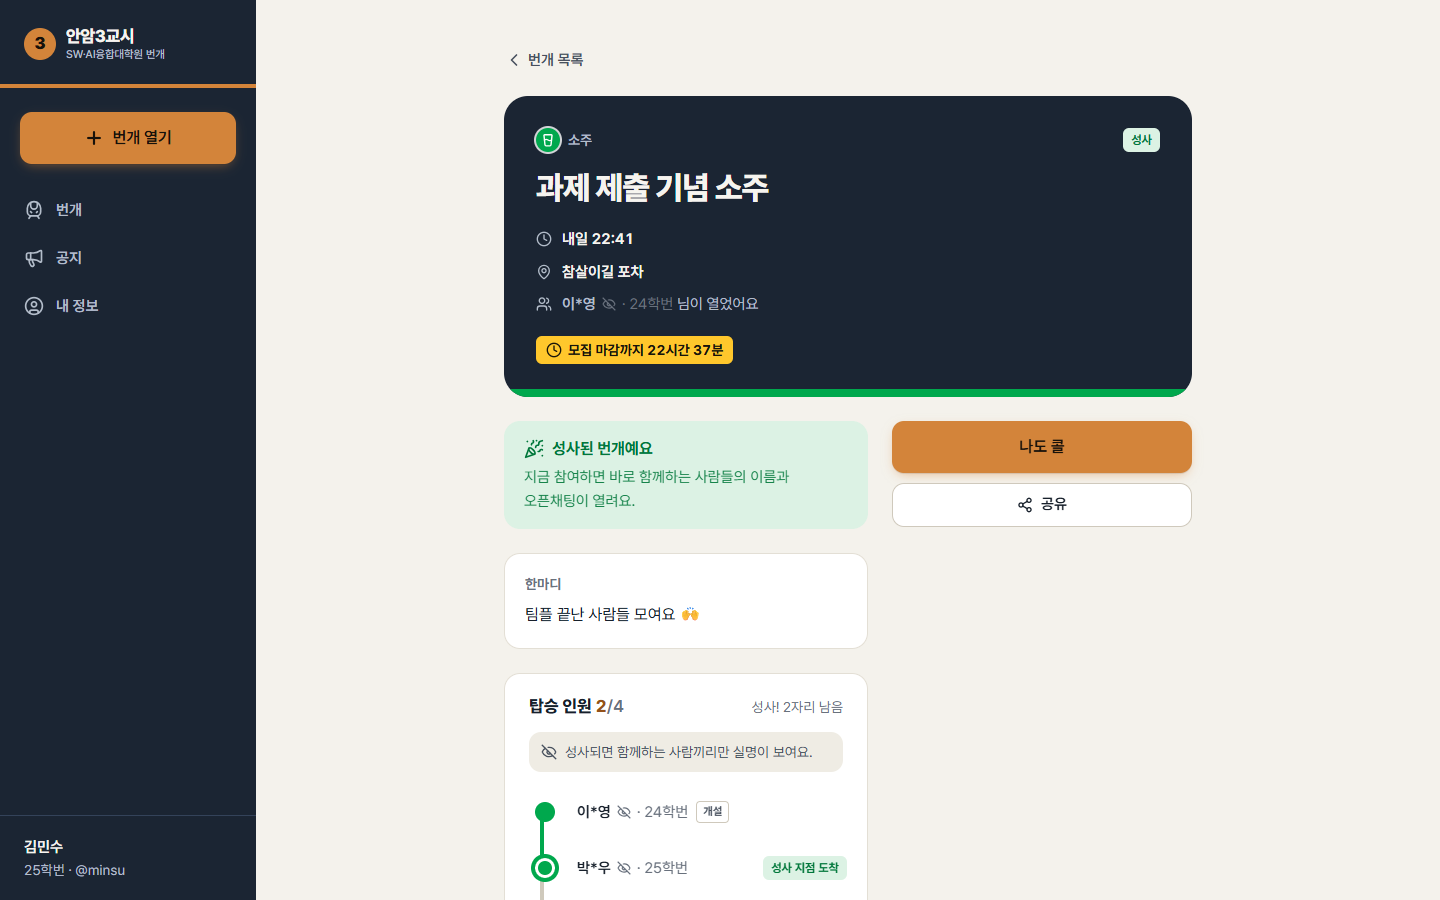
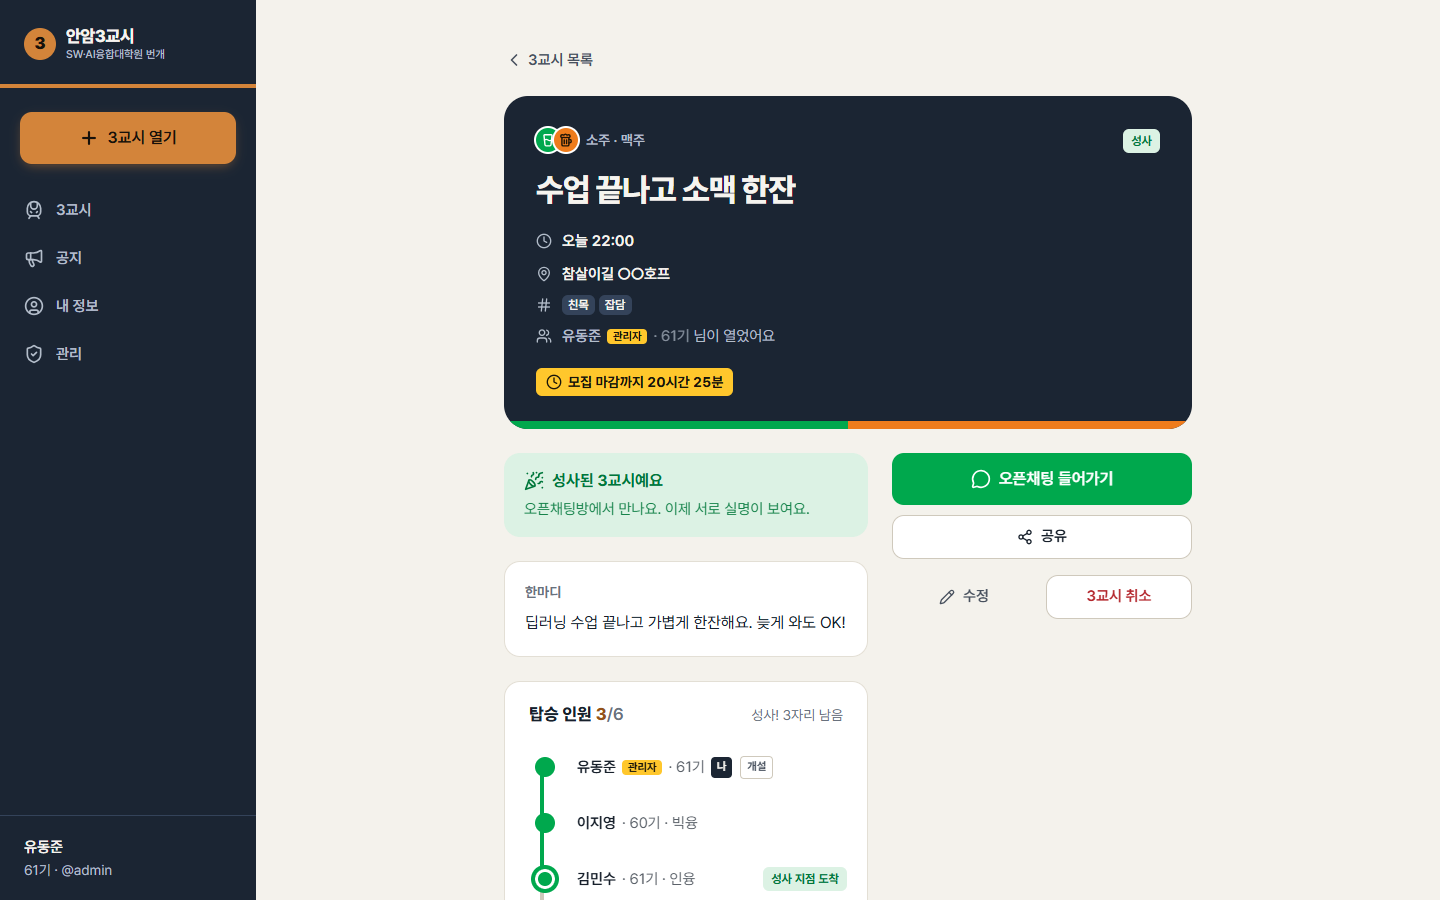
docs: README를 소개·동작·실행 방법만 남기고 정리, 스크린샷 교체
- README: 배포 절차·환경변수 표·폴더 구조 등 운영 세부 사항을 빼고 소개, 동작 방식, 기술 스택, 로컬 실행만 남김
- 스크린샷을 새 화면(3교시, 기수·학과, 관리자 표시)으로 교체
- 공개 저장소에 필요 없는 파일 정리: PRODUCT.md(디자인 작업 메모, 로컬 전용으로 .gitignore), 쓰지 않는 keepalive 워크플로, 쓰지 않는 이미지
- CONTRIBUTING·이슈 템플릿 용어를 3교시/관리자로 맞춤

diff --git a/README.md b/README.md
@@ -1,154 +1,64 @@
 # 안암3교시 🍻
 
 > 수업 끝나고, 3교시는 여기서.
-> 고려대학교 SW·AI융합대학원 동기·선후배를 위한 **번개 모임** 서비스 (학생 비공식 프로젝트)
 
-"누구 한잔할 사람?" 하고 먼저 말 꺼내기 민망했던 사람들을 위해 만들었어요.
-수업 끝나고 모이는 번개를 이 서비스에서는 **3교시**라고 불러요 (화면의 "3교시 열기", "열린 3교시" 등).
+고려대학교 SW·AI융합대학원 동기·선후배가 수업 끝나고 함께할 번개 모임을 부담 없이 열고 참여하는 웹 서비스예요.
+이 서비스에서는 그 번개를 **3교시**라고 불러요.
 
-| 모바일 — 열린 번개 | 모바일 — 성사! | 데스크톱 — 번개 상세 |
+| 모바일 — 열린 3교시 | 모바일 — 성사! | 데스크톱 — 3교시 상세 |
 | :---: | :---: | :---: |
 | <img src="docs/images/mobile-feed.png" width="240" /> | <img src="docs/images/mobile-confirmed.png" width="240" /> | <img src="docs/images/desktop-detail.png" width="420" /> |
 
-## 핵심 규칙: "성사되기 전까지는 아무도 모른다"
+## 어떻게 동작하나요
 
-| 누가 보나 | 성사 전 (최소 인원 미달) | 성사 후 (최소 인원 달성) |
-| --- | --- | --- |
-| 참여자 | `김*수 · 61기 · 인융` (가려짐) | **실명 + 카카오톡 오픈채팅 링크** |
-| 참여 안 한 사람 | `김*수 · 61기 · 인융` | `김*수 · 61기 · 인융` (계속 가려짐) |
-| 관리자 | 실명 | 실명 |
+1. 누군가 3교시를 열어요. 마실 것, 시간, 장소, 인원(최소·최대 또는 제한 없음)을 정해요.
+2. 다른 사람들이 **나도 콜**로 참여해요. 성사 전까지 이름은 `김*수 · 61기 · 인융`처럼 가려져요.
+3. 최소 인원이 모이면 **성사**! 참여자끼리만 실명과 카카오톡 오픈채팅 링크가 공개돼요.
+4. 마감까지 인원이 안 모이면 목록에서 조용히 사라져요.
 
-- 마감 시간까지 최소 인원이 안 모이면 **무산**되고, 목록에서 조용히 사라져요 (본인의 "내 3교시"에만 남음).
-- **최소 인원 없음**으로 열면 몇 명이 오든 진행해요. 열자마자 '확정'이라 참여하면 바로 서로 실명이 보여요.
-- 관리자 본인의 이름은 가려지지 않고 `유동준 [관리자]`처럼 표시돼요.
-- 이름 가리기는 **서버에서** 처리해요. 화면에서 가리면 개발자 도구로 다 보이니까요. → [`MeetupMapper.java`](backend/src/main/java/com/anam3/meetup/MeetupMapper.java)
-- 인원 현황은 지하철 노선도처럼 보여줘요. 자리 하나가 역 하나이고, 최소 인원 지점은 환승역처럼 그려요.
+이름 가리기는 화면이 아니라 서버에서 처리해요 ([`MeetupMapper.java`](backend/src/main/java/com/anam3/meetup/MeetupMapper.java)).
 
-## 기능
+## 주요 기능
 
-- **3교시(번개)**: 열기(마실 것 여러 개 선택·모임 목적 태그·시간·장소 직접 입력·최소/최대 인원 각각 "없음" 가능·모집 마감·오픈채팅 링크), "나도 콜" 참여/취소, 공유(단톡방 링크 복사), 다가오는/지난 3교시
-- **공지**: 누구나 작성, 관리자 글은 실명 + "관리자" 표시, 상단 고정은 관리자만
-- **회원**: 입장 코드로만 가입(외부인 차단), 기수(1기~최신)·학과(소프트웨어보안/빅데이터융합/인공지능융합) 선택, 내 정보 수정, 비밀번호 변경
-- **관리자**: 회원 목록(실명), 차단/해제, 임시 비밀번호 발급, 입장 코드·최신 기수 변경, 전체 3교시 보기, 통계
-- 모바일/데스크톱 반응형, 다크 모드, 홈 화면에 추가 가능
+- 3교시 열기 · 참여 · 단톡방 공유, 다가오는/지난 3교시
+- 공지 게시판 (누구나 작성)
+- 입장 코드로만 가입, 기수·학과 표시
+- 관리자 페이지 (회원 관리, 입장 코드)
+- 모바일·데스크톱 반응형, 다크 모드
 
 ## 기술 스택
 
-| 영역 | 사용 기술 |
-| --- | --- |
-| 백엔드 | Java 25, Spring Boot 4.1, Spring Security(JWT), Spring Data JPA, Flyway, Maven |
-| DB | PostgreSQL(운영, Neon 무료) / H2(로컬·테스트, 설치 불필요) |
-| 프론트엔드 | React 19, TypeScript, Vite, Tailwind CSS v4, TanStack Query, React Router |
-| 배포 | Render 무료 웹 서비스(Docker 1개에 화면+API) + Neon 무료 PostgreSQL |
-| CI | GitHub Actions (백엔드 테스트, 프론트 lint/test/build, Docker 빌드) |
+- **백엔드**: Java 25, Spring Boot 4, Spring Security (JWT), Spring Data JPA, Flyway
+- **프론트엔드**: React 19, TypeScript, Vite, Tailwind CSS v4, TanStack Query
+- **DB**: PostgreSQL (로컬 개발은 설치 없이 H2 인메모리)
+- **배포**: 화면과 API를 Docker 이미지 하나로 빌드해요. `main`에 합쳐지면 자동으로 배포돼요.
 
-## 로컬에서 실행하기 (5분)
+## 로컬에서 실행하기
 
-필요한 것: **Java 25**, **Node.js 22 이상**. DB 설치는 필요 없어요(H2 인메모리 + 샘플 데이터 자동 생성).
+필요한 것: Java 25, Node.js 22 이상. DB는 설치하지 않아도 되고, 샘플 데이터가 자동으로 들어가요.
 
 ```bash
-# 1) 백엔드 (http://localhost:8080)
+# 백엔드 (http://localhost:8080)
 cd backend
 ./mvnw spring-boot:run        # Windows: mvnw.cmd spring-boot:run
 
-# 2) 프론트엔드 (http://localhost:5173) — 새 터미널에서
+# 프론트엔드 (http://localhost:5173) — 새 터미널에서
 cd frontend
 npm install
 npm run dev
 ```
 
-브라우저에서 http://localhost:5173 을 열고 아래 계정으로 로그인하세요.
+http://localhost:5173 에서 샘플 계정 `minsu` / `password1234` 로 로그인하면 돼요 (로컬 전용 계정).
 
-| 아이디 | 비밀번호 | 역할 |
-| --- | --- | --- |
-| `admin` | `admin1234` | 운영자 |
-| `minsu` / `jiyoung` / `hyunwoo` | `password1234` | 일반 회원 |
-
-새로 가입하려면 입장 코드 `anam3` 를 쓰면 돼요 (로컬 전용).
-H2 DB 내용은 http://localhost:8080/h2-console 에서 볼 수 있어요 (JDBC URL: `jdbc:h2:mem:anam3`, 사용자 `sa`).
-
-## 테스트
+테스트:
 
 ```bash
-cd backend && ./mvnw test           # API 통합 테스트 + 단위 테스트
-cd frontend && npm run lint && npm test && npm run build
+cd backend && ./mvnw test
+cd frontend && npm run lint && npm test
 ```
-
-PR을 올리면 GitHub Actions가 위 테스트와 Docker 빌드를 자동으로 돌려요.
-
-## 폴더 구조
-
-```
-backend/                       Spring Boot API
-  src/main/java/com/anam3/
-    auth/      로그인·가입·JWT·보안 설정
-    member/    회원, 내 정보(/api/me)
-    meetup/    번개 ★ 공개 규칙은 MeetupMapper, 상태 계산은 Meetup.statusAt
-    notice/    공지
-    admin/     운영자 API (/api/admin/**)
-    setting/   입장 코드 등 운영 설정
-    bootstrap/ 운영자 계정 자동 생성, 로컬 샘플 데이터
-    common/    에러 처리, 이름 마스킹, SPA 서빙, DB URL 변환
-  src/main/resources/db/migration/   DB 스키마 (Flyway)
-frontend/                      React 화면
-  src/api/        API 호출 + react-query 훅
-  src/pages/      화면 단위
-  src/components/ 공통 컴포넌트 (LineGauge = 노선도 게이지)
-  src/lib/        시간(KST) 처리, 번개 종류/상태 표시 규칙
-  src/index.css   디자인 토큰 (색은 여기서만 정의)
-Dockerfile        화면+API 한 컨테이너로 빌드
-render.yaml       Render 배포 설정
-```
-
-## 배포 (무료)
-
-구성: **Render**(앱 1개, 무료) + **Neon**(PostgreSQL, 무료) + **cron-job.org**(잠들지 않게 깨우기, 무료)
-
-> 무료 플랜 조건은 바뀔 수 있어요 (2026년 11월 기준: Render 무료 750시간/월·15분 무요청 시 잠듦, Neon 무료 1GB·월 100 CU-시간).
-
-### 1. Neon에서 DB 만들기
-1. https://neon.com 가입 → **New Project** → Region은 **AWS Asia Pacific (Singapore)** 선택
-2. 대시보드의 **Connect** 에서 연결 문자열 복사 (`postgresql://...neon.tech/neondb?sslmode=require` 형태, *Pooled connection* 권장)
-
-### 2. Render에 앱 올리기
-1. https://render.com 에 GitHub 계정으로 가입
-2. **New → Blueprint** → 이 저장소 선택 (`render.yaml` 을 자동으로 읽어요)
-3. 환경변수 입력:
-
-| 이름 | 값 |
-| --- | --- |
-| `DATABASE_URL` | 1번에서 복사한 Neon 연결 문자열 그대로 |
-| `INVITE_CODE` | 가입용 입장 코드 (단톡방에 공지할 값) |
-| `ADMIN_LOGIN_ID` | 운영자 아이디 |
-| `ADMIN_PASSWORD` | 운영자 비밀번호 (8자 이상) |
-| `JWT_SECRET` | 자동 생성됨 (손대지 않기) |
-
-4. **Apply** → 첫 빌드 5~10분 → `https://anam3-xxxx.onrender.com` 주소가 생겨요.
-5. 그 주소로 들어가 운영자 아이디로 로그인 → 운영 페이지에서 입장 코드 확인
-
-### 3. 잠들지 않게 하기 (선택이지만 추천)
-Render 무료 앱은 15분간 요청이 없으면 잠들고, 깨는 데 최대 1분 걸려요.
-https://cron-job.org 에서 **10분마다** `https://(내 주소)/api/health` 를 호출하도록 등록하면 항상 깨어 있어요.
-(헬스체크는 DB를 건드리지 않아서 Neon 무료 사용량은 아껴져요.)
-
-GitHub Actions로 하려면 저장소 **Settings → Secrets and variables → Actions → Variables** 에 `APP_URL` 을 넣으면 [`keepalive.yml`](.github/workflows/keepalive.yml) 이 10분마다 깨워요. 다만 GitHub 예약 작업은 실행이 늦어질 수 있어서 cron-job.org를 더 추천해요.
-
-### 환경변수 전체
-
-| 이름 | 필수 | 설명 |
-| --- | --- | --- |
-| `DATABASE_URL` | ✅ | `postgresql://user:pass@host/db?sslmode=require` 또는 `jdbc:postgresql://...` |
-| `JWT_SECRET` | ✅ | 32자 이상 무작위 문자열 |
-| `INVITE_CODE` | ✅ | 최초 입장 코드 (이후엔 운영 페이지에서 변경) |
-| `ADMIN_LOGIN_ID` / `ADMIN_PASSWORD` | 권장 | 서버 시작 시 운영자 계정 생성. 이미 가입한 아이디면 운영자로 승격 |
-| `ADMIN_NAME` | | 관리자 계정을 처음 만들 때의 이름 (기본 "관리자", render.yaml 은 "유동준") |
-| `ADMIN_COHORT` | | 운영자 계정을 처음 만들 때의 기수 (기본 61) |
-| `LATEST_COHORT` | | 가입 때 고를 수 있는 최신 기수 초깃값 (기본 62, 이후엔 운영 페이지에서 변경) |
-| `CORS_ALLOWED_ORIGINS` | | 프론트를 다른 도메인(예: Vercel)에 따로 올릴 때만 |
-| `VITE_API_BASE_URL` | | (프론트 빌드용) API가 다른 도메인일 때만 |
 
 ## 함께 만들기
 
 기능 제안, 버그 제보, 코드 기여 모두 환영해요. → [CONTRIBUTING.md](CONTRIBUTING.md)
 
-학생들이 만든 비공식 커뮤니티로, 고려대학교의 공식 서비스가 아닙니다.
+학생들이 만든 비공식 프로젝트로, 고려대학교의 공식 서비스가 아니에요. · [MIT License](LICENSE)

diff --git a/CONTRIBUTING.md b/CONTRIBUTING.md
@@ -11,14 +11,14 @@
 
 1. **이슈 먼저**: 큰 작업이면 이슈에 "이거 제가 해 볼게요" 남겨 주세요. 겹치는 작업을 막을 수 있어요.
 2. **저장소 가져오기**
-   - 운영자가 협업자(Collaborator)로 초대했다면 → 바로 `git clone`
+   - 관리자가 협업자(Collaborator)로 초대했다면 → 바로 `git clone`
    - 아니라면 → 오른쪽 위 **Fork** 후 내 저장소를 clone
 3. **브랜치 만들기** (main 에 바로 올리지 않아요)
    ```bash
    git checkout -b feat/meetup-comment     # 새 기능
    git checkout -b fix/deadline-timezone   # 버그 수정
    ```
-4. **로컬 실행 & 수정** — [README의 "로컬에서 실행하기"](README.md#로컬에서-실행하기-5분)
+4. **로컬 실행 & 수정** — [README의 "로컬에서 실행하기"](README.md#로컬에서-실행하기)
 5. **테스트 통과 확인**
    ```bash
    cd backend && ./mvnw test
@@ -26,17 +26,17 @@
    ```
 6. **커밋 & 푸시 → Pull Request**
    - PR 템플릿을 채워 주세요. 화면을 바꿨다면 스크린샷(모바일+데스크톱)을 꼭 넣어 주세요.
-   - GitHub Actions(CI)가 초록색이 되고 운영자 리뷰를 받으면 합쳐져요.
-   - `main` 에 합쳐지면 Render가 자동으로 배포해요.
+   - GitHub Actions(CI)가 초록색이 되고 관리자 승인을 받으면 합쳐져요.
+   - `main` 에 합쳐지면 자동으로 배포돼요.
 
 ## 커밋 메시지
 
 `종류: 무엇을` 형식으로 한국어/영어 자유롭게.
 
 ```
-feat: 번개에 댓글 기능 추가
-fix: 자정 넘는 번개가 '오늘'로 보이던 문제 수정
-docs: 배포 가이드 보완
+feat: 3교시에 댓글 기능 추가
+fix: 자정 넘는 3교시가 '오늘'로 보이던 문제 수정
+docs: README 보완
 refactor / test / chore / style
 ```
 
@@ -49,7 +49,7 @@ refactor / test / chore / style
 - 비밀번호, 토큰, 입장 코드, DB 주소를 코드나 커밋에 넣지 마세요. 전부 환경변수예요.
 
 ### DB 변경
-- 테이블/컬럼을 바꿀 땐 **새 Flyway 파일**을 추가해요: `backend/src/main/resources/db/migration/V2__설명.sql`
+- 테이블/컬럼을 바꿀 땐 **다음 번호로 새 Flyway 파일**을 추가해요: `backend/src/main/resources/db/migration/V5__설명.sql`
 - 이미 배포된 `V1__init.sql` 같은 파일은 **절대 수정하지 않기** (운영 DB가 깨져요).
 - PostgreSQL과 H2(PostgreSQL 모드) 양쪽에서 돌아가는 SQL로 써 주세요.
 
@@ -64,12 +64,6 @@ refactor / test / chore / style
 - 색은 `src/index.css` 의 토큰(`bg-board`, `text-ink-2`, `bg-accent` …)만 써요. `#ff0000` 같은 값을 직접 쓰지 않기. 다크 모드가 자동으로 맞춰져요.
 - 시간 표시는 `src/lib/time.ts` 를 써요 (항상 한국 시간 기준).
 - 모바일(390px)과 데스크톱(1440px) 둘 다 확인해 주세요.
-- 디자인 방향(안암역 6호선 안내판 모티브)은 [PRODUCT.md](PRODUCT.md) 를 참고해요.
-
-## 운영자(메인테이너)에게
-
-- 협업자 초대: 저장소 **Settings → Collaborators → Add people**
-- `main` 브랜치는 보호되어 있어요: PR + CI 통과 + 리뷰 1명 필요 (운영자는 예외 가능)
-- 배포 환경변수는 Render 대시보드에서만 관리해요.
+- 디자인은 안암역 6호선 안내판이 모티브예요. 기존 화면의 색·간격·말투에 맞춰 주세요.
 
 궁금한 건 이슈나 단톡방에 편하게 물어봐 주세요. 🍻
